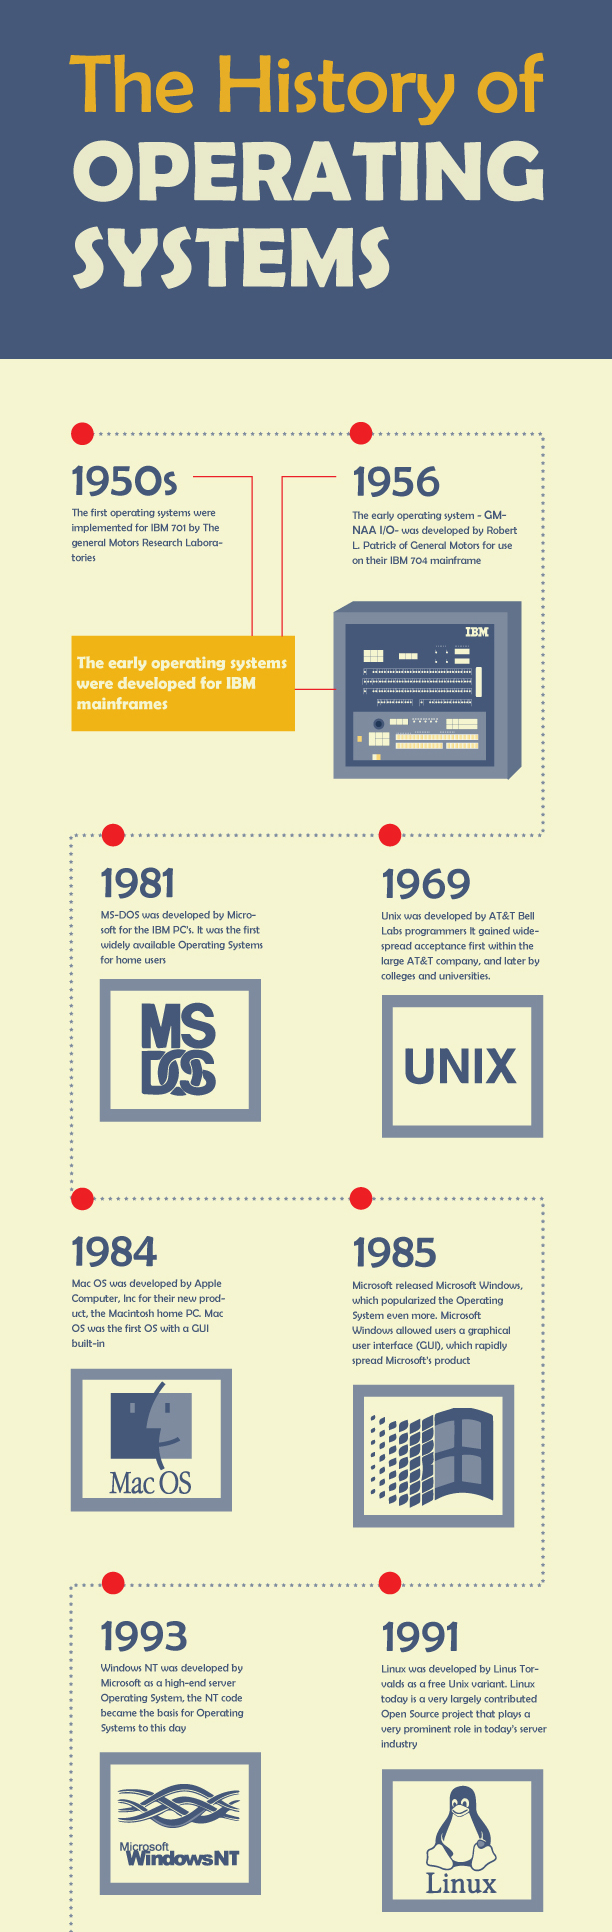
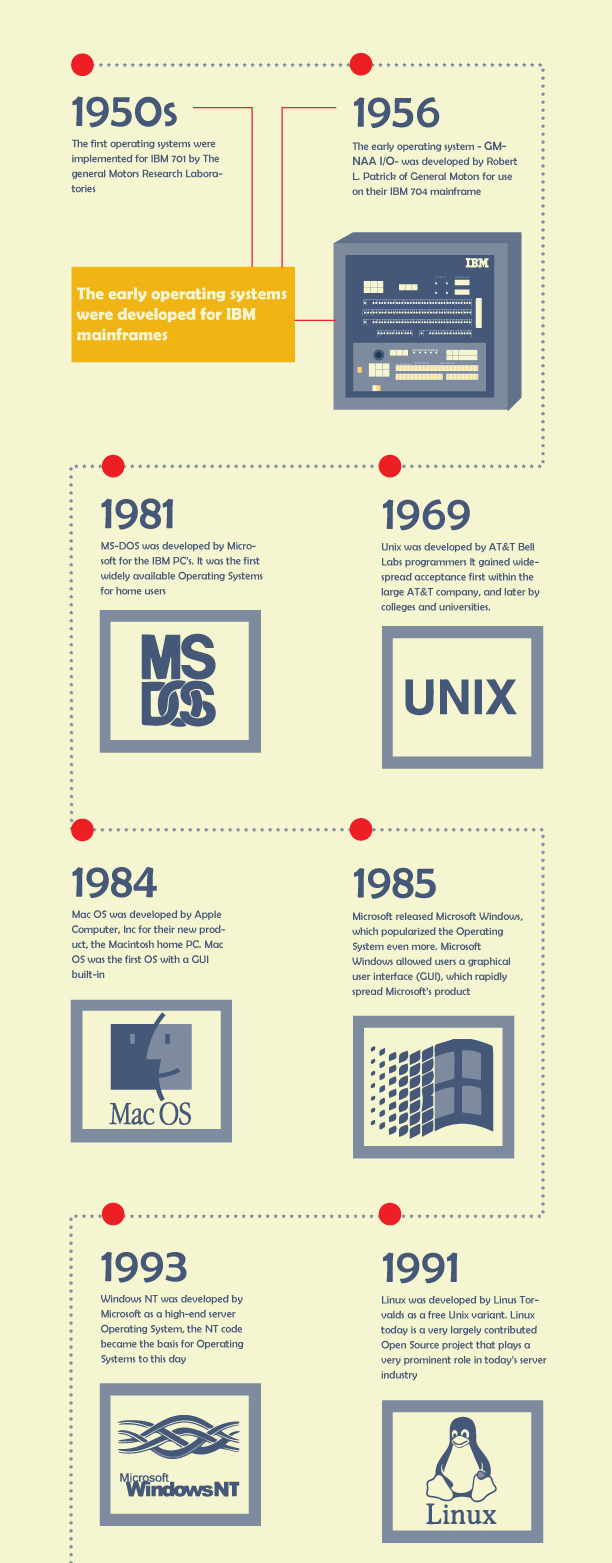
Add: More Information about Component of Operating systems and new things about systemcalls Del: N/A Doc: Everything is Documentation.

diff --git a/Operating_Systems/notes.md b/Operating_Systems/notes.md
@@ -6,11 +6,10 @@
 
 
 ## History
-<!-- 
-<img src="./Assets/History.jpg" alt="History" style="width: 100%; border-radius: 10px;"> -->
 
-## Types of Operating Systems
+<img src="./Assets/History.jpg" alt="History" style="width: 100%; border-radius: 10px;">
 
+## [Types of Operating Systems](https://www.geeksforgeeks.org/types-of-operating-systems/)
 ### 1. Batch Operating Systems 
 
 <div align="center">
@@ -47,4 +46,33 @@ This is used in the Fourth Generation Computers, Where we can have multiple proc
     - Asymmetric Multiprocessing (ASMP)
 - **Ex** : Linux, Windows 95, MacOS and all new OS
 
+### 4. Distributed Operating Systems
 
+<div align="center">
+    <img src="./Assets/DOS.webp" alt="Distributed OS" style="width: 60%; border-radius: 10px;">
+</div>
+
+Distributed Operating Systems manage a group of independent computers and make them appear to the users as a single computer. These systems coordinate the processing and sharing of resources across multiple machines connected via a network.Like figma.
+
+- Resources and tasks are distributed among multiple computers.
+- Provides better performance, reliability, and scalability.
+- Users can access remote resources as if they are local.
+- **Ex**: Amoeba, Plan 9, Google Fuchsia
+
+## Components of OS
+
+<div align="center">
+    <img src="./Assets/Component.webp" alt="Distributed OS" style="width: 100%; border-radius: 10px;">
+</div>
+
+### System Calls
+
+<div align="center">
+    <img src="./Assets/syscall.webp" alt="Distributed OS" style="width: 60%; border-radius: 10px;">
+</div>
+System calls provide the interface between user applications and the operating system kernel. They allow user-level processes to request services(Hardware operations) such as file operations, process control, and communication from the OS.
+
+- A system call makes a interupt(switch of CPU mode), which grants the control of the process to OS so it can use hardware.
+- Examples: `read()`, `write()`, `fork()`, `exec()`, `open()`, `close()`
+- System calls are essential for security and stability, as they prevent direct hardware access by user programs.
+- They can cause compatibility problems like windows have different systemcalls and linux have different.

diff --git a/Operating_Systems/Linux_OS_Internals_CheatSheet.md b/Operating_Systems/Linux_OS_Internals_CheatSheet.md
@@ -1,0 +1,145 @@
+
+# 🐧 Linux OS Internals: Hands-On Cheat Sheet
+
+Explore and interact with OS Components & Services right on your Linux system.
+
+---
+
+## 📦 Process Management
+
+- **See running processes**
+  ```bash
+  ps aux
+  ```
+
+- **Interactive process viewer**
+  ```bash
+  sudo apt install htop
+  htop
+  ```
+
+- **View parent-child process relationships**
+  ```bash
+  pstree
+  ```
+
+- **Start a background process**
+  ```bash
+  gedit &
+  ```
+
+## 📊 Memory Management
+
+- **Check memory usage**
+  ```bash
+  free -h
+  ```
+
+- **Virtual memory stats**
+  ```bash
+  vmstat
+  ```
+
+- **Detailed memory info**
+  ```bash
+  cat /proc/meminfo
+  ```
+
+## 💾 File Management
+
+- **List files with permissions**
+  ```bash
+  ls -l
+  ```
+
+- **File operations**
+  ```bash
+  touch file.txt
+  rm file.txt
+  mv old.txt new.txt
+  ```
+
+- **Check open files by a process**
+  ```bash
+  lsof -p <PID>
+  ```
+
+## 🔌 Device Management
+
+- **List block devices**
+  ```bash
+  lsblk
+  ```
+
+- **List all devices**
+  ```bash
+  ls /dev
+  ```
+
+- **Check USB devices**
+  ```bash
+  lsusb
+  ```
+
+## 🧠 System Calls
+
+- **Trace system calls made by a command**
+  ```bash
+  strace ls
+  ```
+
+## 🛡 Security & User Management
+
+- **List users**
+  ```bash
+  cat /etc/passwd
+  ```
+
+- **Check file permissions**
+  ```bash
+  ls -l file.txt
+  ```
+
+- **Modify file permissions**
+  ```bash
+  chmod 755 file.txt
+  ```
+
+## 📶 Networking
+
+- **List open ports and connections**
+  ```bash
+  netstat -tulpn
+  ```
+
+- **Ping test**
+  ```bash
+  ping google.com
+  ```
+
+## 📖 Kernel & OS Info
+
+- **Kernel version**
+  ```bash
+  uname -a
+  ```
+
+- **Detailed kernel info**
+  ```bash
+  cat /proc/version
+  ```
+
+## 🔥 Pro Tip
+
+- **Install tools if missing**
+  ```bash
+  sudo apt install net-tools htop strace psmisc
+  ```
+
+## 🎁 Bonus Challenge
+
+- **Build a simple shell in C using `fork()`, `execvp()`, `wait()`**
+
+---
+
+Save this cheat sheet and hack your way into OS internals like a pro! 🐧🔥

diff --git a/Operating_Systems/Concurrency.md b/Operating_Systems/Concurrency.md
@@ -1,0 +1,26 @@
+# <span style="color:red;">Concurrency</span>
+
+![Program, Process, and Thread](./Assets/Program_Process_thread.jpeg)
+
+Runninng form of the program is called Process.
+
+Background Processes are called - Daemons or services 
+
+
+## Critical Section Problem
+
+A Critical Section is a part of the code where shared resources are accessed. The goal is to ensure that only one process enters the critical section at a time.
+
+To solve this, three conditions must be satisfied (Critical Section Problem Solution Requirements):
+
+- **Mutual Exclusion** — Only one process can be in its critical section at a time.
+- **Progress** — If no process is in the critical section, and some processes wish to enter, one of them must eventually enter.
+- **Bounded Waiting** — No process should wait forever to enter its critical section.
+
+It can Be solved by:
+Locking Mechanism 
+
+
+## Samaphores 
+They work on Locking Mechanism, It is just a integer value used to get in and out of the Critical Section.
+Read this [article on semaphores](https://preshing.com/20150316/semaphores-are-surprisingly-versatile/).
